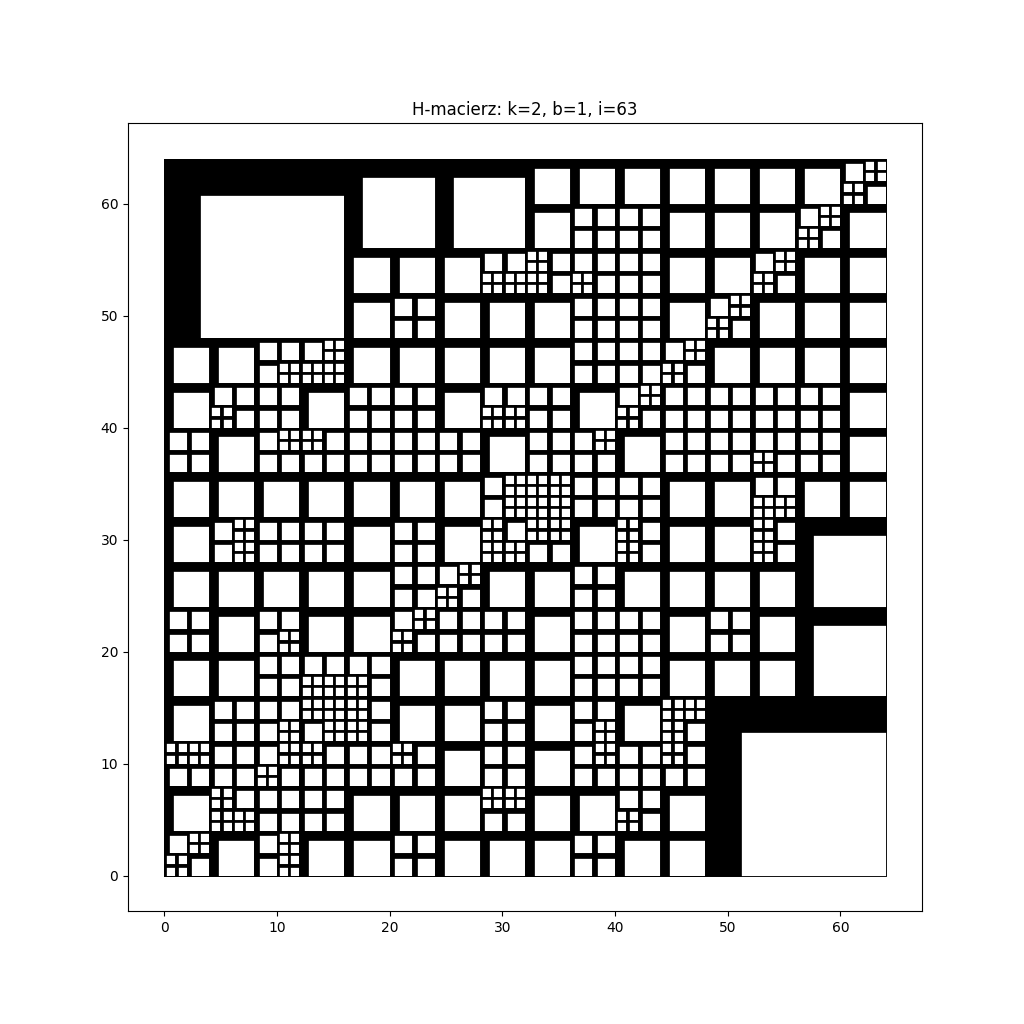
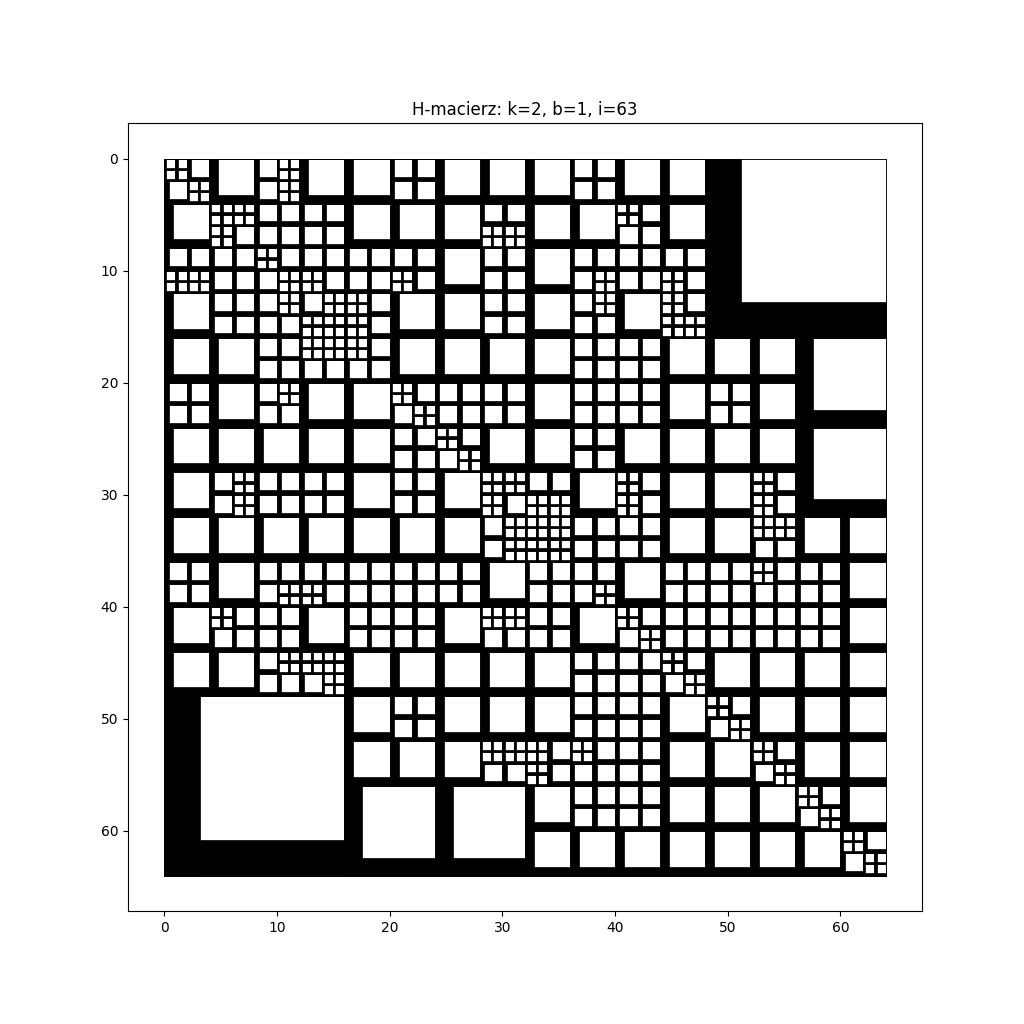
lab5

Changed region(s): [[0.1562, 0.1562, 0.875, 0.875], [0.0938, 0.1875, 0.125, 0.2188]]

diff --git a/lab4/lab4.py b/lab4/lab4.py
@@ -24,6 +24,7 @@ class Node:
         self.children.append(node)
         node.parent = self
 
+
 def create_tree(t_min, t_max, s_min, s_max, r, eps):
     global ax
     global matrix_to_svd
@@ -58,6 +59,7 @@ def compress_matrix(t_min, t_max, s_min, s_max, U, D, V, r):
     v.U = U[:, :r + 1]
     v.V = np.diag(D[:r + 1]) @ V[:r + 1, :]
     return v
+
 
 def draw_cross_with_square(left_top, right_bottom, ax):
 
@@ -94,10 +96,12 @@ def show_matrices(name, k):  # rysownik
     fig, ax = plt.subplots(figsize=(10.24, 10.24))
     v = create_tree(0, n, 0, n, 1, D[n-1])
 
+    ax.invert_yaxis()
     ax.set_title(f'H-macierz: k={k}, b=1, i={n-1}')
     plt.savefig(f'graphs/{name}')
-    plt.show()
+    # plt.show()
     plt.clf()
+
 
 def findIndex(a, x):
     return next((i for i, item in enumerate(a) if item[0] == x), -1)
@@ -226,7 +230,7 @@ def generate_3d_grid_matrix(k):
 def plot_binary_matrix(matrix, name):
     plt.figure(figsize=(10, 10))
     plt.imshow(matrix, cmap='binary', interpolation='none', vmin=0, vmax=1)
-
+    # plt.show()
     plt.savefig("graphs/"+name)
 
 
@@ -239,6 +243,7 @@ def apply_permutation(matrix, permutation):
             permuted_matrix[i, j] = matrix[permutation[i]][permutation[j]]
 
     return permuted_matrix
+
 
 def test(k):
     global matrix_to_svd
@@ -265,7 +270,6 @@ def test(k):
     matrix_to_svd = copy.deepcopy(permuted_matrix)
     plot_binary_matrix(permuted_matrix, f"RCM/RCM{k}")
     show_matrices(f"RCM/svd{k}", k)
-
 
     # plot_binary_matrix(matrix, f"matrix{k}")
     # m = ReorderingSSM(matrix)
@@ -318,6 +322,7 @@ def test(k):
 # print()
 # print(matrix)
 # plot_binary_matrix(x, "minimum_degree_matrix2")
+
 
 if __name__ == "__main__":
     test(2)

diff --git a/lab4/tempCodeRunnerFile.py b/lab4/tempCodeRunnerFile.py
@@ -1,3 +1,11 @@
-m = ReorderingSSM(matrix)
+r = m.CM()
+    # permuted_matrix = apply_permutation(matrix, r)
+    # matrix_to_svd = copy.deepcopy(permuted_matrix)
+    # plot_binary_matrix(permuted_matrix, f"CM/CM{k}")
+    # show_matrices(f"CM/svd{k}", k)
 
-r = m.RCM()
+    # r = m.RCM()
+    # permuted_matrix = apply_permutation(matrix, r)
+    # matrix_to_svd = copy.deepcopy(permuted_matrix)
+    # plot_binary_matrix(permuted_matrix, f"RCM/RCM{k}")
+    # show_matrices(f"RCM/svd{k}", k)
